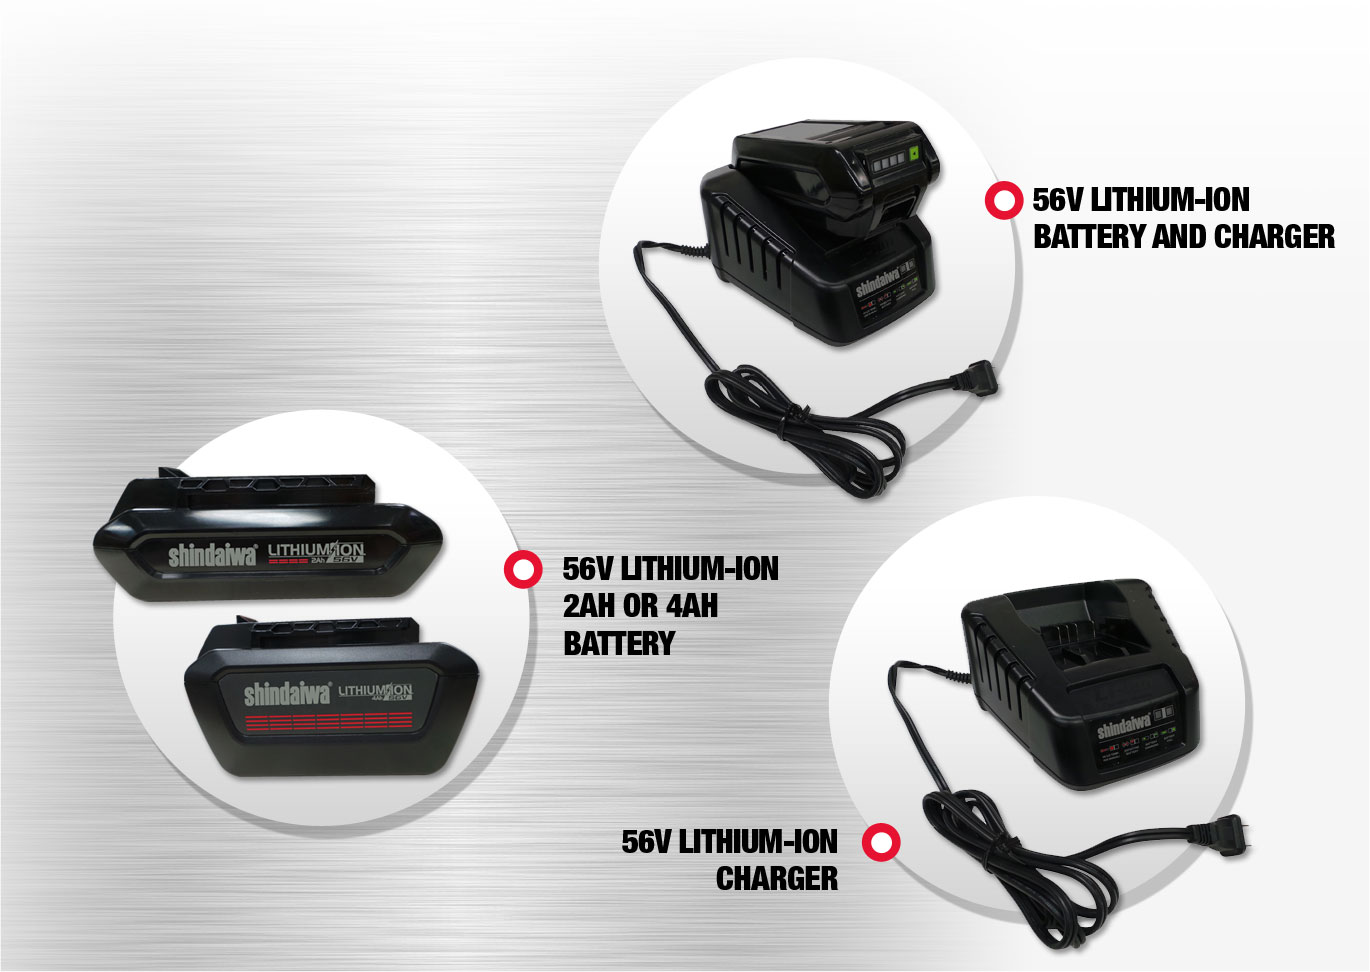
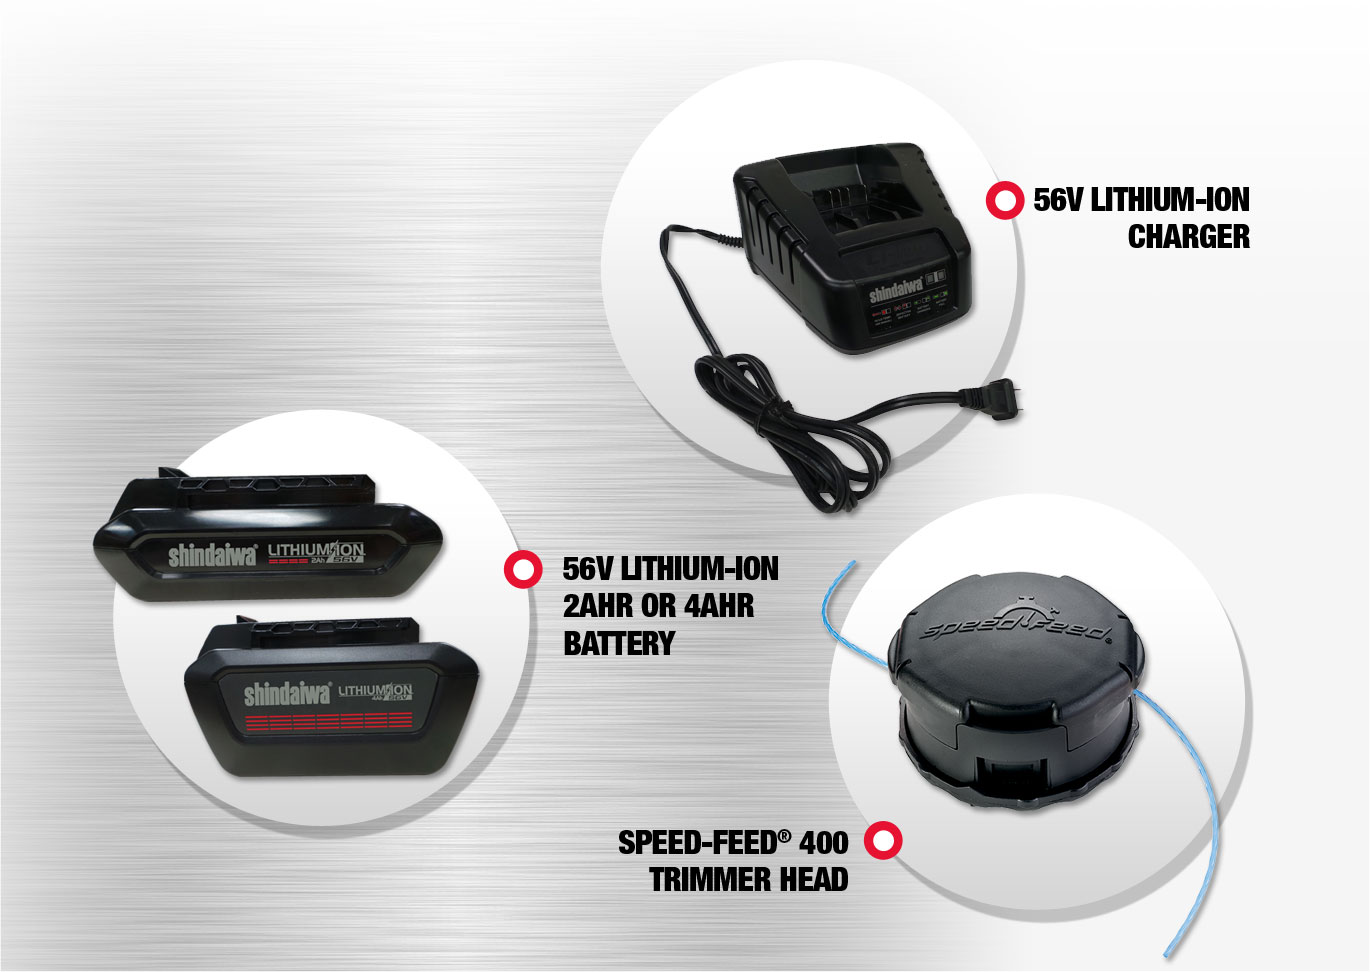
removing battery and charger

diff --git a/accessories/index.html b/accessories/index.html
@@ -95,28 +95,6 @@
 				<div class="row accessory">
 					<div class="container">
 						<div class="col-md-3">
-							<img class="desktop" src="/images/accessory-battery-charger-l.png" alt="" />
-							<img class="mobile" src="/images/accessory-battery-charger.png" alt="" />
-						</div>
-						<div class="col-md-9">
-							<h3>56V Lithium-Ion Battery and Charger</h3>
-							<p>Lorem ipsum dolor sit amet, consectetur adipiscing elit. Donec lobortis congue nibh ac dapibus. Aliquam ipsum metus, imperdiet ac massa vitae, mollis rutrum nisi..</p>
-							<h5>Standard Charger</h5>
-							<ul>
-								<li><strong>Part #:</strong> 99945600200</li>
-								<li><strong>MSRP:</strong> $149</li>
-							</ul>
-							<h5>Rapid Charger</h5>
-							<ul>
-								<li><strong>Part #:</strong> 99945600201</li>
-								<li><strong>MSRP:</strong> $199</li>
-							</ul>
-						</div>
-					</div>
-				</div>
-				<div class="row accessory">
-					<div class="container">
-						<div class="col-md-3">
 							<img class="desktop" src="/images/accessory-charger-l.png" alt="" />
 							<img class="mobile" src="/images/accessory-charger.png" alt="" />
 						</div>

diff --git a/dh2000/index.html b/dh2000/index.html
@@ -100,17 +100,12 @@
 					<h1 class="desktop">DH2000 Battery &amp; Charger</h1>
 					<h1 class="mobile"><span>DH2000</span> Accessories</h1>
 					<div class="row">
-						<div class="col-sm-4">
+						<div class="col-sm-4 col-sm-offset-1">
 							<img class="desktop" src="/images/accessory-battery-l.png" alt="" />
 							<img class="mobile" src="/images/accessory-battery.png" alt="" />
 							<h5>56V Lithium-Ion 2AHR or 4AHR Battery</h5>
 						</div>
-						<div class="col-sm-4">
-							<img class="desktop" src="/images/accessory-battery-charger-l.png" alt="" />
-							<img class="mobile" src="/images/accessory-battery-charger.png" alt="" />
-							<h5>56V Lithium-Ion Battery and Charger</h5>
-						</div>
-						<div class="col-sm-4">
+						<div class="col-sm-4 col-sm-offset-2">
 							<img class="desktop" src="/images/accessory-charger-l.png" alt="" />
 							<img class="mobile" src="/images/accessory-charger.png" alt="" />
 							<h5>56V Lithium-Ion Charger</h5>

diff --git a/eb6000/index.html b/eb6000/index.html
@@ -100,17 +100,12 @@
 					<h1 class="desktop">EB6000 Battery &amp; Charger</h1>
 					<h1 class="mobile"><span>EB6000</span> Accessories</h1>
 					<div class="row">
-						<div class="col-sm-4">
+						<div class="col-sm-4 col-sm-offset-1">
 							<img class="desktop" src="/images/accessory-battery-l.png" alt="" />
 							<img class="mobile" src="/images/accessory-battery.png" alt="" />
 							<h5>56V Lithium-Ion 2AHR or 4AHR Battery</h5>
 						</div>
-						<div class="col-sm-4">
-							<img class="desktop" src="/images/accessory-battery-charger-l.png" alt="" />
-							<img class="mobile" src="/images/accessory-battery-charger.png" alt="" />
-							<h5>56V Lithium-Ion Battery and Charger</h5>
-						</div>
-						<div class="col-sm-4">
+						<div class="col-sm-4 col-sm-offset-2">
 							<img class="desktop" src="/images/accessory-charger-l.png" alt="" />
 							<img class="mobile" src="/images/accessory-charger.png" alt="" />
 							<h5>56V Lithium-Ion Charger</h5>

diff --git a/t3000/index.html b/t3000/index.html
@@ -100,17 +100,12 @@
 					<h1 class="desktop">T3000 Battery &amp; Charger</h1>
 					<h1 class="mobile"><span>T3000</span> Accessories</h1>
 					<div class="row">
-						<div class="col-sm-4">
+						<div class="col-sm-4 col-sm-offset-1">
 							<img class="desktop" src="/images/accessory-battery-l.png" alt="" />
 							<img class="mobile" src="/images/accessory-battery.png" alt="" />
 							<h5>56V Lithium-Ion 2AHR or 4AHR Battery</h5>
 						</div>
-						<div class="col-sm-4">
-							<img class="desktop" src="/images/accessory-battery-charger-l.png" alt="" />
-							<img class="mobile" src="/images/accessory-battery-charger.png" alt="" />
-							<h5>56V Lithium-Ion Battery and Charger</h5>
-						</div>
-						<div class="col-sm-4">
+						<div class="col-sm-4 col-sm-offset-2">
 							<img class="desktop" src="/images/accessory-charger-l.png" alt="" />
 							<img class="mobile" src="/images/accessory-charger.png" alt="" />
 							<h5>56V Lithium-Ion Charger</h5>

diff --git a/index.html b/index.html
@@ -126,12 +126,12 @@
 				<div class="text">
 					<h1>Cordless <strong>Accessories</strong></h1>
 					<div class="mobile">
-						<img src="/images/accessory-battery-charger.png" alt="" />
-						<h4>56V Lithium-Ion Battery and Charger</h4>
 						<img src="/images/accessory-charger.png" alt="" />
 						<h4>56V Lithium-Ion Charger</h4>
 						<img src="/images/accessory-battery.png" alt="" />
 						<h4>56V Lithium-Ion 2AHR or 4AHR Battery</h4>
+						<img src="/images/accessory-speed-feed.png" alt="" />
+						<h4>Speed-Feed<sup>&reg;</sup> 400 Trimmer Head</h4>
 					</div>
 					<a href="/accessories" class="btn btn-red">All Accessories</a>
 				</div>
